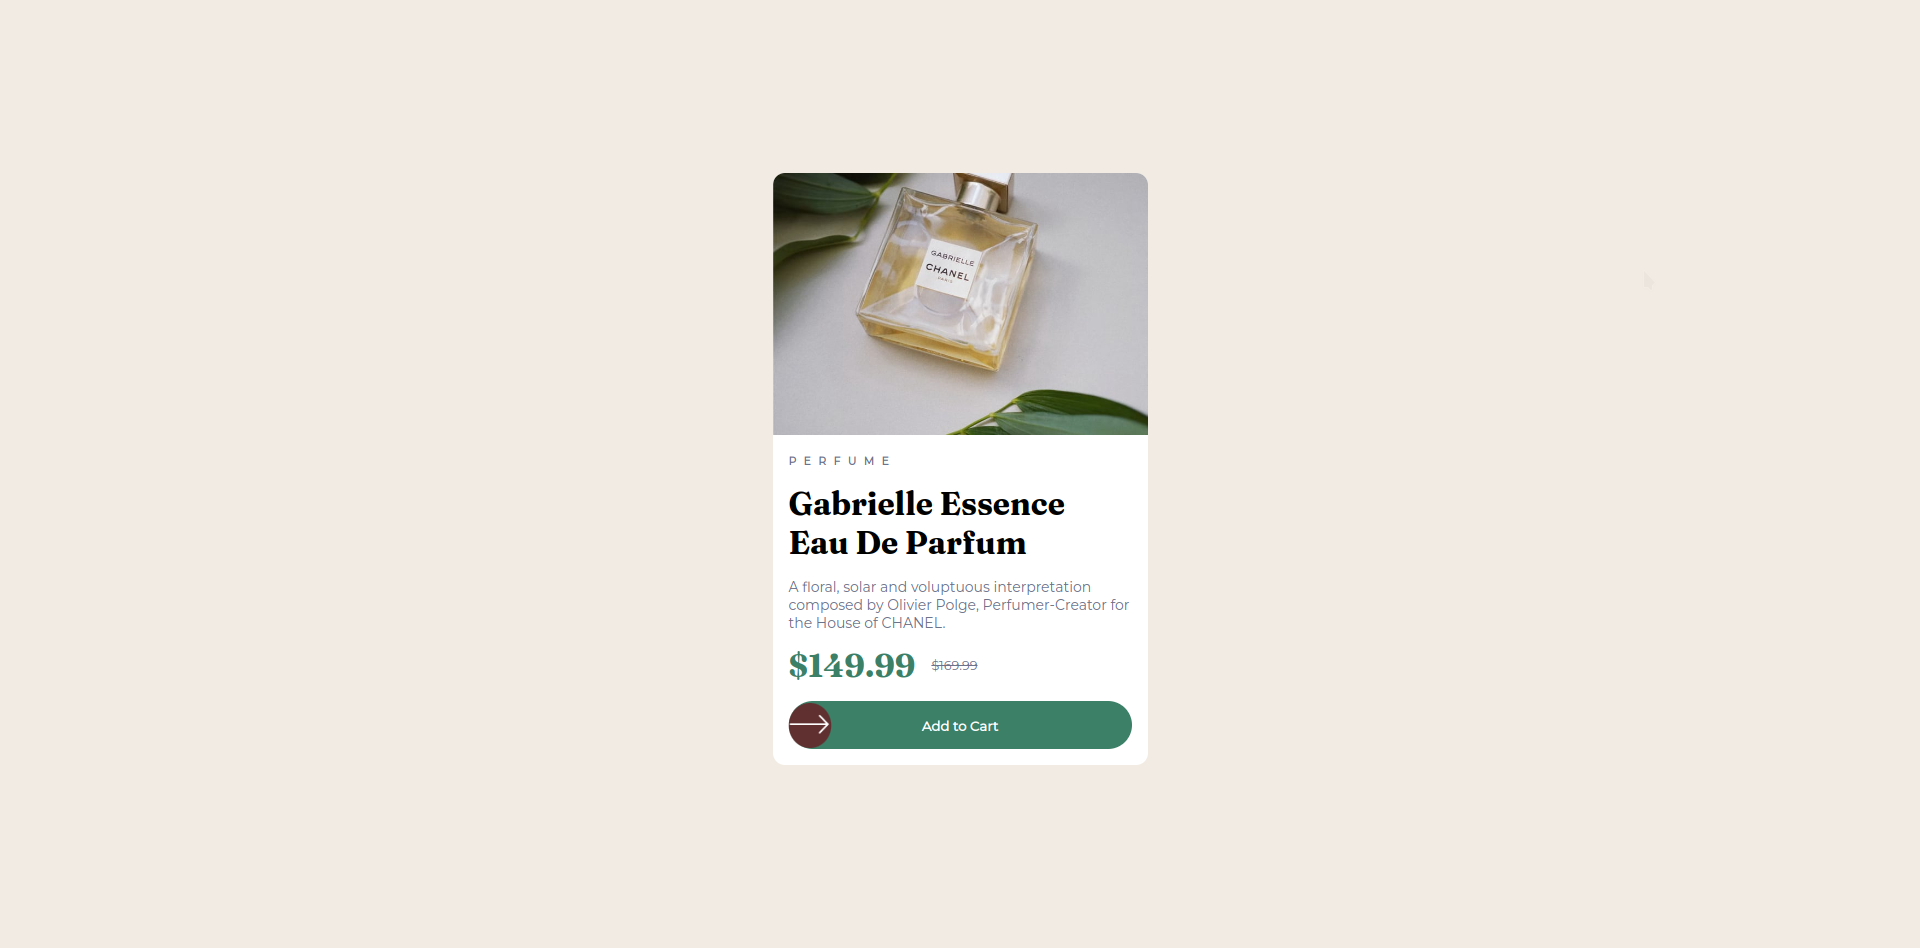
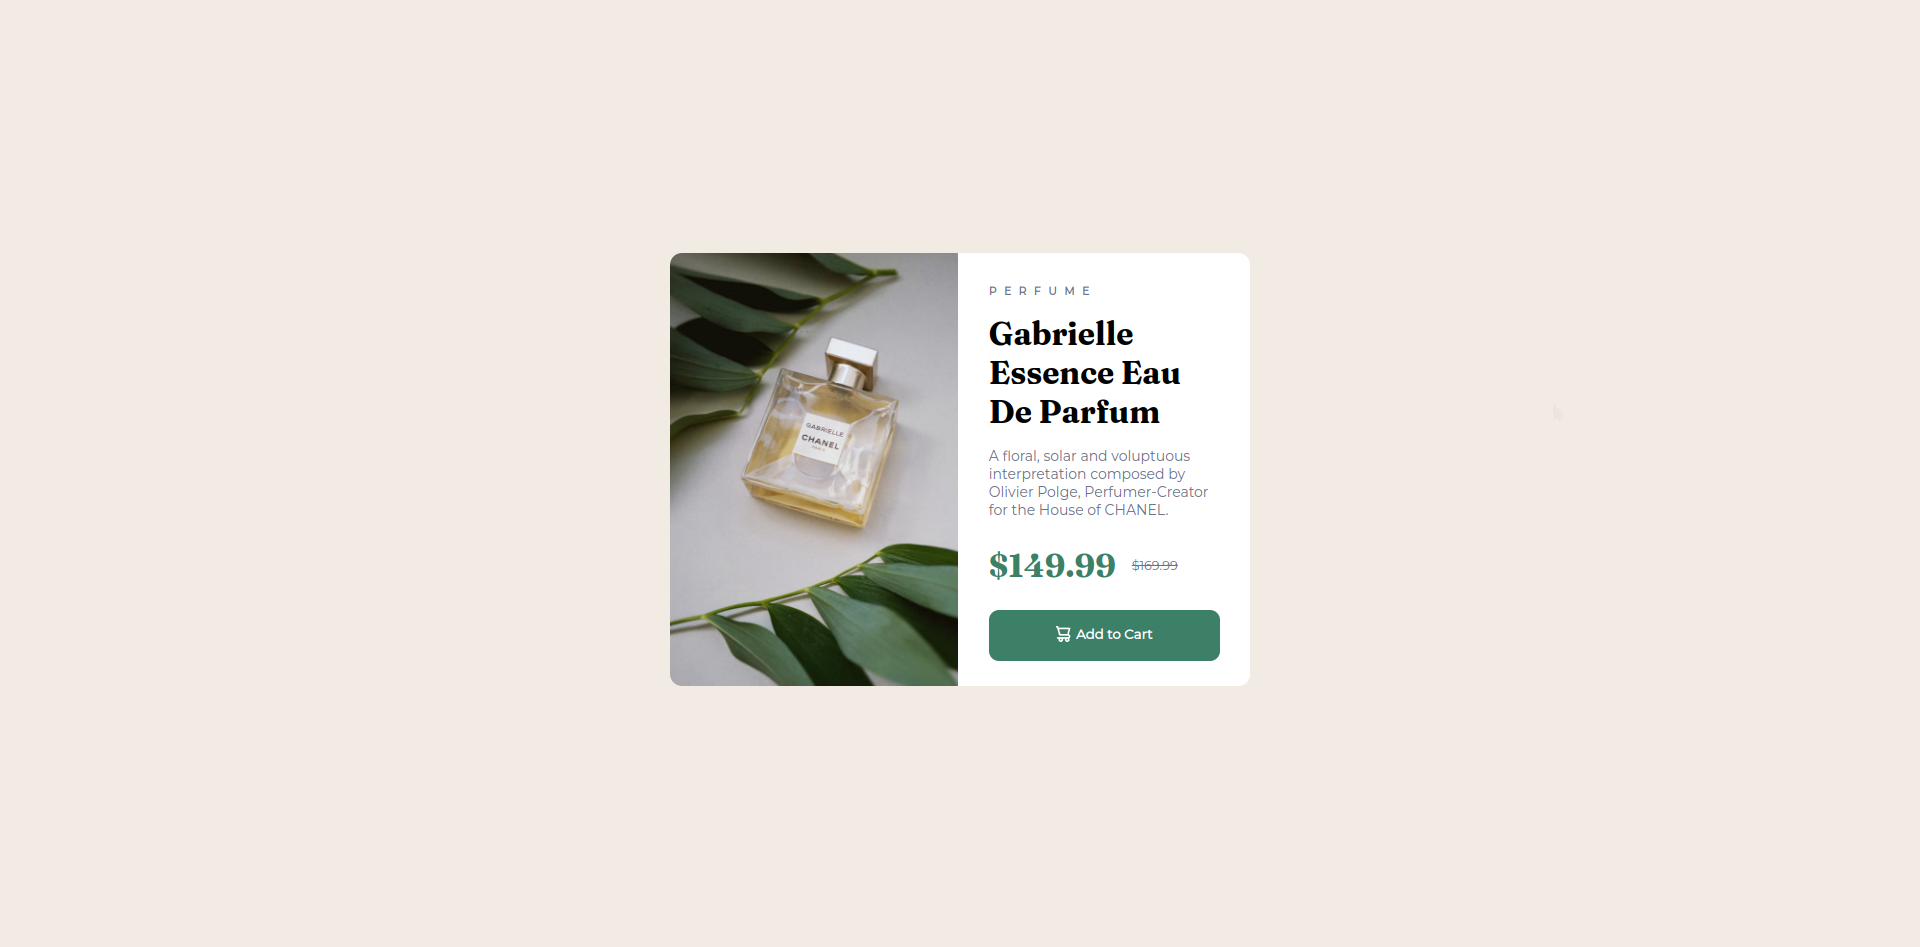
Updated code, screenshot and updated README

Changed region(s): [[0.3438, 0.1837, 0.6562, 0.8268]]

diff --git a/css/style.css b/css/style.css
@@ -17,14 +17,20 @@ body {
     background-color: hsl(0, 0%, 100%);
 }
 
-#image {
+#desktop_image {
+    display: none;
+}
+
+#mobile_image {
     max-width: 100%;
     max-height: 100%;
     border-top-left-radius: 12px;
     border-top-right-radius: 12px;
+    display: block
 }
 
-#written {
+#written_column {
+    align-items: center;
     margin: 0 1rem;
 }
 
@@ -43,7 +49,7 @@ h1 {
     margin-top: 1rem;
 }
 
-#written p {
+#written_column p {
     font-family: 'Montserrat';
     font-size: 14px;
     color: hsl(228, 12%, 48%);
@@ -69,79 +75,88 @@ h1 {
 }
 
 .button {
-    position: relative;
+    color: rgba(255, 255, 255, 1);
+    font-weight: 700;
+    font-family: 'Montserrat';
     background-color: hsl(158, 36%, 37%);
-    border-radius: 40px;
+    border-radius: 10px;
     width: 100%;
     border-style: none;
     transition-duration: 200ms;
     transition-timing-function: cubic-bezier(0.64, 0.01, 0.42, 1);
     transition-property: all;
-    padding: 1.5rem;
+    padding: 1rem;
     margin-top: 1rem;
     margin-bottom: 1rem;
 }
 
-#add {
-    color: rgba(255, 255, 255, 1);
-    font-weight: 700;
-    font-family: 'Montserrat';
-    position: absolute;
-    left: auto;
-    top: 1.25em;
-    left: 1.5em;
-    right: 1.5em;
-    bottom: 1.25em;
-}
-
-#added {
-    color: rgba(255, 255, 255, 0);
-    font-weight: 700;
-    font-family: 'Montserrat';
-    position: absolute;
-    top: 1.25em;
-    left: 1.5em;
-    right: 1.5em;
-    bottom: 1.25em;
-}
-
-#added:focus {
-    color: rgba(255, 255, 255, 1);
-}
-
-.button:after {
-    position: absolute;
-    content: url(../images/arrow.png);
-    size: 10px;
-    transform: scale(85%) translateX(-16.5em);
-    background-color: hsl(0, 34%, 28%);
-    border-radius: 50%;
-    margin-bottom: 2px;
-    margin-top: -2.0em;
-    margin-left: 12px;
-    padding: 0;
-    transition-duration: 800ms;
-    transition-timing-function: cubic-bezier(0.91, 0.01, 0.06, 0.98);
-    transition-property: all;
+.button::before {
+    content: url(../images/icon-cart.svg);
+    vertical-align: middle;
+    margin-right: 5px;
 }
 
 .button:hover {
-    background-color: hsl(158, 34%, 28%);
+    background-color: hsl(158, 36%, 25%);
 }
 
-.button:focus {
-    background-color: hsl(0, 34%, 28%);
-}
-
-.button:focus #add {
-    color: rgba(255, 255, 255, 0);
-}
-
-.button:focus #added {
-    color: rgba(255, 255, 255, 1);
-}
-
-.button:focus::after {
-    transform: rotate(360deg) scale(85%) translateX(10em);
-    background-color: hsl(158, 36%, 37%);
+@media (min-width:800px) {
+    .container {
+        display: flex;
+        text-overflow: wrap;
+        flex-direction: row;
+        width: 580px;
+        border: 0.2rem;
+        border-radius: 12px;
+        margin: auto;
+        background-color: hsl(0, 0%, 100%);
+    }
+    #written_column {
+        width: 40%;
+        margin-left: 1.9rem;
+        margin-right: 1.9rem;
+        margin-top: 1rem;
+    }
+    #image_column {
+        display: block;
+        width: 50%;
+        max-height: 100%;
+        border-top-left-radius: 12px;
+        border-bottom-left-radius: 12px;
+    }
+    #mobile_image {
+        display: none;
+    }
+    #desktop_image {
+        display: block;
+        width: 100%;
+        max-height: 100%;
+        border-top-left-radius: 12px;
+        border-bottom-left-radius: 12px;
+    }
+    .button {
+        margin: auto;
+        margin-top: 25px;
+    }
+    .small-light-heading {
+        margin-top: 10px;
+        color: hsl(228, 12%, 48%);
+        text-transform: uppercase;
+        font-family: 'Montserrat';
+        letter-spacing: 0.7em;
+        margin-bottom: 1rem;
+        margin-top: 1rem;
+    }
+    h1 {
+        font-family: 'Fraunces';
+        margin-bottom: 1rem;
+        margin-top: 1rem;
+    }
+    #written_column p {
+        font-family: 'Montserrat';
+        font-size: 14px;
+        color: hsl(228, 12%, 48%);
+        text-align: start;
+        margin-bottom: 1.7rem;
+    }
 }

diff --git a/index.html b/index.html
@@ -33,8 +33,8 @@
 
 
     <div class="container">
-        <div><img src="images/image-product-mobile.jpg" alt="image" id="image"></div>
-        <div id="written">
+        <div id="image_column"><img src="images/image-product-mobile.jpg" alt="image" id="mobile_image"><img src="images/image-product-desktop.jpg" alt="image" id="desktop_image"></div>
+        <div id="written_column">
             <h6 class="small-light-heading">Perfume
             </h6>
             <h1 class="bold-heading">
@@ -45,7 +45,7 @@
                 <span id="price">$149.99</span>
                 <span id="strikedprice">$169.99</span>
             </div>
-            <button type="button" class="button"><span id="add">Add to Cart</span><span id="added">Added!!!</span></button>
+            <button type="button" class="button"><span class="button_content">Add to Cart</span></button>
         </div>
     </div>
 

diff --git a/README.md b/README.md
@@ -32,10 +32,6 @@ Users should be able to:
 ![](./images/webpage_ss.png)
 
 
-### Links
-
-- Solution URL: [Add solution URL here](https://your-solution-url.com)
-
 ### My process
 
 ### Built with
@@ -44,6 +40,7 @@ Users should be able to:
 - CSS custom properties
 - Flexbox
 - Mobile-first workflow
+- Visual Studio Code
 
 ### What I learned
 
